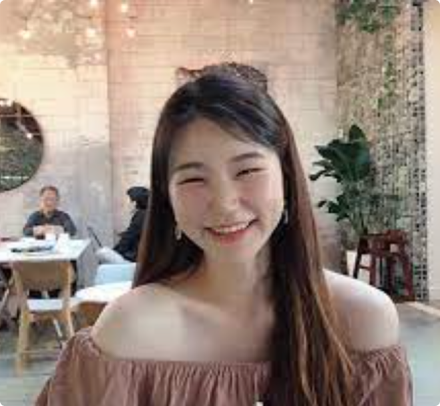
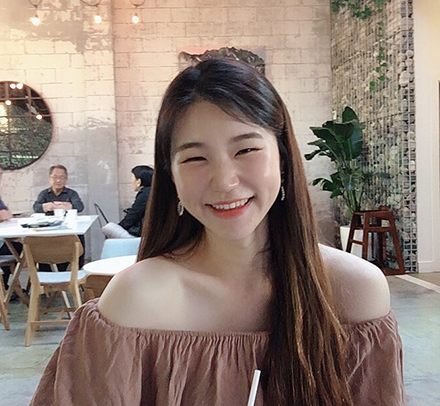
color font | registration footer | button link |  guest image updated

diff --git a/partial/footer.php b/partial/footer.php
@@ -1,70 +1,91 @@
 <footer>
-        <div class="purple1 grid grid-cols-2 lg:grid-cols-12 gap-6 px-5 lg:px-7">
-            <div class="col-span-full lg:col-start-5 lg:col-span-4 my-10">
-                <h2 class="poppins second text-lg lg:text-2xl font-bold lg:font-semibold text-center mb-5">Join Event
-                </h2>
-                <p class="text-sm lg:text-lg font-light">Register now for a future of connections and success in New
-                    Media!</p>
-                <form class="flex flex-col my-4" method="post"
-                    action="<?php echo htmlspecialchars($_SERVER["PHP_SELF"]); ?>">
-                    <label class="text-sm lg:text-lg" for="email">Email:</label>
-                    <input
-                        class="purple1 text-sm lg:text-lg font-light italic border-solid border-white border rounded text-center p-1 mb-2"
-                        type="email" name="email" placeholder="Your Email" required>
-                    <label class="text-sm lg:text-lg" for="linkedin">Your LinkedIn URL (optional):</label>
-                    <input
-                        class="purple1 text-sm lg:text-lg font-light italic border-solid border-white border rounded text-center p-1"
-                        type="text" name="linkedin" placeholder="Your LinkedIn url (optional)">
-                    <input class="text-sm lg:text-lg bg-orange-700 rounded mt-8 mb-4 py-2 " type="submit" value="Register">
-                    <?php
-                    // Database connection parameters
-                    $servername = "localhost";
-                    $username = "root";
-                    $password = "root";
-                    $dbname = "registerdatabase";
+    <div id="registration" class="purple1 grid grid-cols-2 lg:grid-cols-12 gap-6 px-5 lg:px-7">
+        <div class="col-span-full lg:col-start-5 lg:col-span-4 my-10">
+            <h2 class="poppins orange text-lg lg:text-2xl font-bold lg:font-semibold text-center mb-5">Join Event
+            </h2>
+            <p class="text-sm lg:text-lg font-light">Register now for a future of connections and success in New
+                Media!</p>
+            <form id="registrationForm" class="flex flex-col my-4" method="post"
+                action="<?php echo htmlspecialchars($_SERVER["PHP_SELF"]); ?>">
+                <label class="text-sm lg:text-lg" for="email">Email:</label>
+                <input
+                    class="purple1 text-sm lg:text-lg font-light italic border-solid border-white border rounded text-center p-1 mb-2"
+                    type="email" name="email" placeholder="Your Email" required>
+                <label class="text-sm lg:text-lg" for="linkedin">Your LinkedIn URL (optional):</label>
+                <input
+                    class="purple1 text-sm lg:text-lg font-light italic border-solid border-white border rounded text-center p-1"
+                    type="text" name="linkedin" placeholder="Your LinkedIn url (optional)">
+                <input id="submitBtn" class="text-sm lg:text-lg bg-orange-700 rounded mt-8 mb-4 py-2 " type="submit"
+                    value="Register">
+                <?php
+                // Database connection parameters
+                $servername = "localhost";
+                $username = "root";
+                $password = "root";
+                $dbname = "registerdatabase";
 
-                    // Create connection
-                    $conn = new mysqli($servername, $username, $password, $dbname);
+                // Create connection
+                $conn = new mysqli($servername, $username, $password, $dbname);
 
-                    // Check connection
-                    if ($conn->connect_error) {
-                        die("Connection failed: " . $conn->connect_error);
+                // Check connection
+                if ($conn->connect_error) {
+                    die("Connection failed: " . $conn->connect_error);
+                }
+
+                // Check if form is submitted
+                if ($_SERVER["REQUEST_METHOD"] == "POST") {
+                    // Retrieve form data
+                    $email = $_POST["email"];
+                    $linkedin = $_POST["linkedin"];
+
+                    // Insert data into the database
+                    $sql = "INSERT INTO registertable (email, linkedin) VALUES ('$email', '$linkedin')";
+
+                    if ($conn->query($sql) === TRUE) {
+                        // echo '<div class="fist poppins col-span-full text-center font-bold italic text-xl underline underline-offset-8 decoration-orange-600">Registration successful!</div>';
+                    } else {
+                        echo "Error: " . $sql . "<br>" . $conn->error;
                     }
 
-                    // Check if form is submitted
-                    if ($_SERVER["REQUEST_METHOD"] == "POST") {
-                        // Retrieve form data
-                        $email = $_POST["email"];
-                        $linkedin = $_POST["linkedin"];
+                    // Close the database connection
+                    $conn->close();
+                }
+                ?>
 
-                        // Insert data into the database
-                        $sql = "INSERT INTO registertable (email, linkedin) VALUES ('$email', '$linkedin')";
-
-                        if ($conn->query($sql) === TRUE) {
-                            echo '<div class="fist poppins col-span-full text-center font-bold italic text-xl underline underline-offset-8 decoration-orange-600">Registration successful!</div>';
-                        } else {
-                            echo "Error: " . $sql . "<br>" . $conn->error;
-                        }
-
-                        // Close the database connection
-                        $conn->close();
-                    }
-                    ?>
-
-                </form>
-                <div class="second text-center my-8">
-                    <h3 class="poppins">Let's Connect!</h3>
-                    <div class=" flex justify-center gap-6 mt-3">
-                        <a href=""><i class="text-3xl fa-brands fa-linkedin"></i></a>
-                        <a href=""><i class="text-3xl fa-brands fa-discord"></i></a>
-                        <a href=""><i class="text-3xl fa-solid fa-envelope"></i></a>
-                    </div>
+            </form>
+            <div class="orange text-center my-8">
+                <h3 class="poppins">Let's Connect!</h3>
+                <div class=" flex justify-center gap-6 mt-3">
+                    <a href=""><i class="text-3xl fa-brands fa-linkedin"></i></a>
+                    <a href=""><i class="text-3xl fa-brands fa-discord"></i></a>
+                    <a href=""><i class="text-3xl fa-solid fa-envelope"></i></a>
                 </div>
-                <p class="text-sm lg:text-lg font-light text-center">Copyright &copy; Event 2023</p>
-                <a id="arrow_top" class="second fixed bottom-5 right-5" href="#top"><i
-                        class="text-5xl fa-solid fa-circle-arrow-up"></i></a>
-
             </div>
+            <p class="text-sm lg:text-lg font-light text-center">Copyright &copy; Event 2023</p>
+            <a id="arrow_top" class="orange fixed bottom-5 right-5" href="#top"><i
+                    class="text-5xl fa-solid fa-circle-arrow-up"></i></a>
+
         </div>
-    </footer>
-    <script src="js/main.js"></script>
+    </div>
+</footer>
+<script>
+    document.addEventListener('DOMContentLoaded', function () {
+        var form = document.getElementById('registrationForm');
+        var submitBtn = document.getElementById('submitBtn');
+        var confirmationContainer = document.createElement('div');
+
+        form.addEventListener('submit', function (event) {
+            event.preventDefault();
+
+            var confirmationMessage = '<div class="beige poppins col-span-full text-center font-bold italic text-xl underline underline-offset-8 decoration-orange-600">Registration successful!</div>';
+            confirmationContainer.innerHTML = confirmationMessage;
+
+            submitBtn.insertAdjacentHTML('afterend', confirmationMessage);
+
+            setTimeout(function () {
+                form.reset();
+            }, 200);
+        });
+    });
+</script>
+<script src="js/main.js"></script>

diff --git a/OurTeam.php b/OurTeam.php
@@ -15,7 +15,7 @@
     
     <main id="top">
         <div class="purple1">
-            <h1 class="poppins font-bold second text-3xl text-center py-16 lg:py-32">Meet the Team</h1>
+            <h1 class="poppins font-bold orange text-3xl text-center py-16 lg:py-32">Meet the Team</h1>
             <div class="purple2 grid grid-cols-2 lg:grid-cols-12 gap-6 p-5 py-10 lg:p-6">
                 <div class="col-span-full lg:col-span-4 flex flex-col">
                     <img class="mb-2 rounded" src="./images/profile/julie_profile.png" alt="person1">
@@ -24,7 +24,7 @@
                             <h3 class="poppins text-lg lg:text-2xl">Julie Chan</h3>
                             <h4 class="text-sm lg:text-lg">Event Organizer</h4>
                         </div>
-                        <div class="second p-3 p-3">
+                        <div class="orange p-3 p-3">
                             <a class="" href=""><i class="text-3xl lg:text-4xl fa-brands fa-linkedin"></i></a>
                         </div>
                     </div>
@@ -36,7 +36,7 @@
                             <h3 class="poppins text-lg lg:text-2xl">Hoi Wing Henry Cheung</h3>
                             <h4 class="text-sm lg:text-lg">Event Organizer</h4>
                         </div>
-                        <div class="second p-3">
+                        <div class="orange p-3">
                             <a href=""><i class="text-3xl lg:text-4xl fa-brands fa-linkedin"></i></a>
                         </div>
                     </div>
@@ -48,7 +48,7 @@
                             <h3 class="poppins text-lg lg:text-2xl">Selene Choi</h3>
                             <h4 class="text-sm lg:text-lg">Event Organizer</h4>
                         </div>
-                        <div class="second p-3">
+                        <div class="orange p-3">
                             <a href=""><i class="text-3xl lg:text-4xl fa-brands fa-linkedin"></i></a>
                         </div>
                     </div>
@@ -60,7 +60,7 @@
                             <h3 class="poppins text-lg lg:text-2xl">Johann Duque</h3>
                             <h4 class="text-sm lg:text-lg">Event Organizer</h4>
                         </div>
-                        <div class="second p-3">
+                        <div class="orange p-3">
                             <a href=""><i class="text-3xl lg:text-4xl fa-brands fa-linkedin"></i></a>
                         </div>
                     </div>
@@ -72,7 +72,7 @@
                             <h3 class="poppins text-lg lg:text-2xl">Christine Lee</h3>
                             <h4 class="text-sm lg:text-lg">Event Organizer</h4>
                         </div>
-                        <div class="second p-3">
+                        <div class="orange p-3">
                             <a href=""><i class="text-3xl lg:text-4xl fa-brands fa-linkedin"></i></a>
                         </div>
                     </div>
@@ -84,7 +84,7 @@
                             <h3 class="poppins text-lg lg:text-2xl">Nicola Lee</h3>
                             <h4 class="text-sm lg:text-lg">Event Organizer</h4>
                         </div>
-                        <div class="second p-3">
+                        <div class="orange p-3">
                             <a href=""><i class="text-3xl lg:text-4xl fa-brands fa-linkedin"></i></a>
                         </div>
                     </div>

diff --git a/OurSpeakers.php b/OurSpeakers.php
@@ -19,7 +19,7 @@
 
             <!-- CONTAINER 1 -->
             <div class="purple1 grid grid-cols-2 lg:grid-cols-12 gap-6 p-5 py-16">
-                <h1 class="col-span-full poppins font-bold second text-xl lg:text-3xl text-center">Our Speakers
+                <h1 class="col-span-full poppins font-bold orange text-xl lg:text-3xl text-center">Our Speakers
                 </h1>
                 <p class="col-span-full lg:col-start-2 lg:col-span-10 my-4 text-sm leading-6 lg:text-lg">Our team
                     curated a dynamic panel of industry professionals to share invaluable career insights and
@@ -29,8 +29,8 @@
                 <div class="col-span-full lg:col-start-4 lg:col-span-3">
                     <img class="w-4/4 rounded" src="./images/guest/guest1.png" alt="guest speaker 1">
                     <div class="mt-7">
-                        <h3 class="poppins second font-semibold text-lg lg;text-2xl">Sarah Thompson</h3>
-                        <h4 class="second font-light text-sm lg:text-lg mb-3">Web Developer</h4>
+                        <h3 class="poppins orange font-semibold text-lg lg;text-2xl">Sarah Thompson</h3>
+                        <h4 class="orange font-light text-sm lg:text-lg mb-3">Web Developer</h4>
                         <p class="text-sm leading-6 lg:text-lg lg:w-2/3">Sarah Thompson, a skilled software engineer,
                             excels in machine learning and full-stack development.
 
@@ -40,8 +40,8 @@
                 <div class="col-span-full lg:col-span-3">
                     <img class="w-4/4 rounded" src="./images/guest/guest2.png" alt="guest speaker 2">
                     <div class="mt-7">
-                        <h3 class="poppins second font-semibold text-lg lg;text-2xl">Alex Rodriguez</h3>
-                        <h4 class="second font-light text-sm lg:text-lg mb-3">UX /UI Designer</h4>
+                        <h3 class="poppins orange font-semibold text-lg lg;text-2xl">Alex Rodriguez</h3>
+                        <h4 class="orange font-light text-sm lg:text-lg mb-3">UX /UI Designer</h4>
                         <p class="text-sm leading-6 lg:text-lg lg:w-2/3">Alex Rodriguez, a creative force in UX/UI
                             design, crafts award-winning projects for optimal user engagement.
                         </p>
@@ -52,7 +52,7 @@
 
         <!-- CONTAINER 2 -->
         <div class="purple2 grid grid-cols-2 lg:grid-cols-12 gap-6 p-5 py-10">
-            <h1 class="second col-span-full poppins font-bold second text-xl lg:text-3xl text-center">Guest Speakers
+            <h1 class="orange col-span-full poppins font-bold orange text-xl lg:text-3xl text-center">Guest Speakers
             </h1>
             <p class="col-span-full lg:col-start-2 lg:col-span-10 text-center text-sm leading-6 lg:text-lg my-6">Elevate
                 your knowledge with industry experts! Join our speaker series for insights from cutting-edge developers

diff --git a/index.php b/index.php
@@ -6,7 +6,6 @@
     <title>Home Page</title>
     
     <link rel="stylesheet" href="https://cdnjs.cloudflare.com/ajax/libs/font-awesome/6.5.1/css/all.min.css">
-
     <link rel="stylesheet" href="https://cdnjs.cloudflare.com/ajax/libs/font-awesome/4.7.0/css/font-awesome.min.css">
     
     <script src="https://cdn.tailwindcss.com"></script>
@@ -37,7 +36,7 @@
                             <br>
                             <i>February 20,2024</i>
                             <br>
-                            <button class = "button-main mt-7 w-4/4  ">Join Event</button>
+                            <a href="#registration"><button class = "button-main mt-7 w-4/4  ">Join Event</button></a>
                         </div>
                     </div>
                 </div>

diff --git a/partial/header.php b/partial/header.php
@@ -20,7 +20,7 @@
                 </div>
 
                 <ul>
-                    <li><button class="navButton">Join Event</button></li>
+                    <li><a href="#registration"><button class="navButton">Join Event</button></a></li>
                     <li><a href="index.php">Home</a></li>
                     <li><a href="EventDetails.php">Event Details</a></li>
                     <li><a href="OurSpeakers.php">Our Speakers</a></li>

diff --git a/EventDetails.php b/EventDetails.php
@@ -4,7 +4,7 @@
     <meta charset="UTF-8">
     <meta name="viewport" content="width=device-width, initial-scale=1.0">
     <title>Event Details</title>
-
+    <link rel="stylesheet" href="https://cdnjs.cloudflare.com/ajax/libs/font-awesome/6.5.1/css/all.min.css">
     <script src="https://cdn.tailwindcss.com"></script>
     <link href="css\style.css" rel="stylesheet">
 
